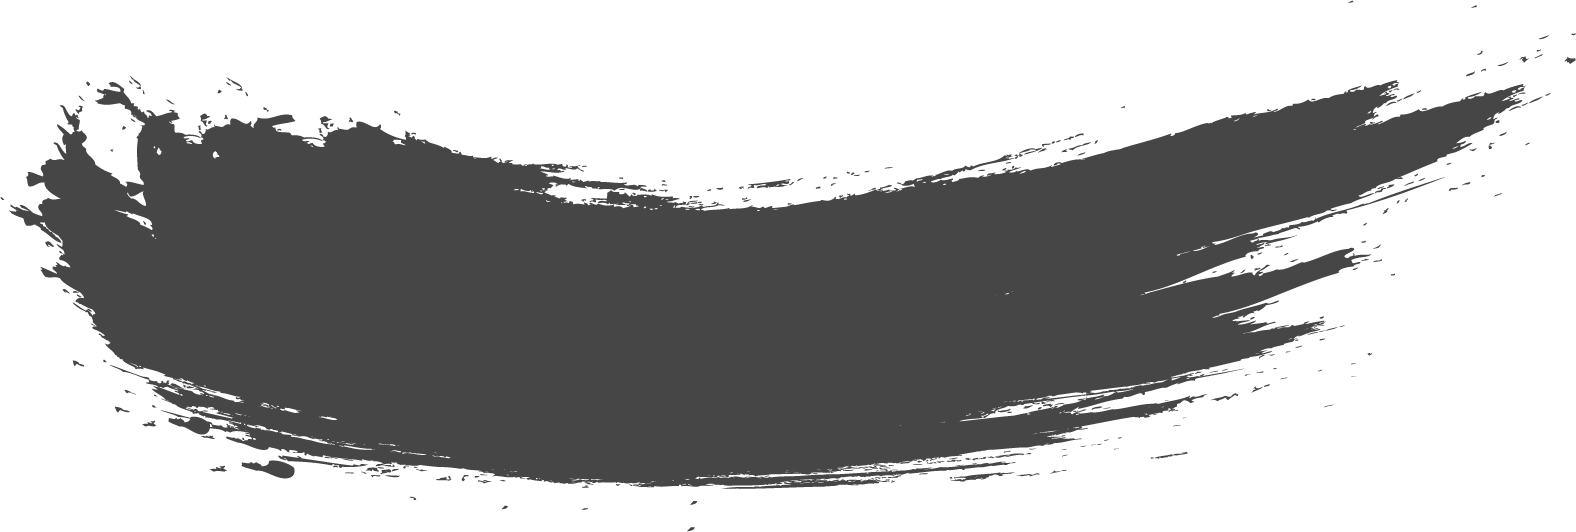
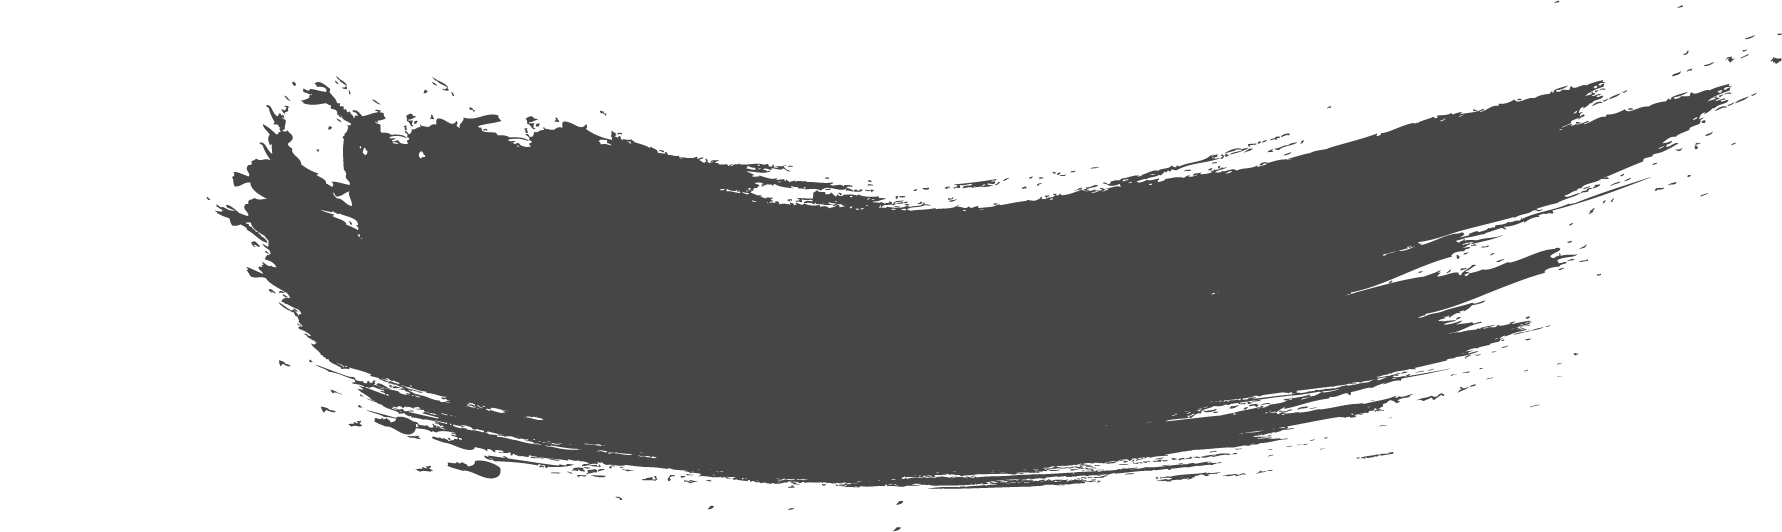
EDO-93 Add transparent padding in brushstroke image to fix cross browser styling

Changed region(s): [[0.0, 0.1504, 0.9949, 0.9323], [0.9638, 0.0902, 0.9949, 0.1203], [0.7462, 0.8421, 0.7773, 0.8722]]

diff --git a/src/main/webapp/app/teams/teams-status.scss b/src/main/webapp/app/teams/teams-status.scss
@@ -34,10 +34,12 @@
             z-index: 3;
         }
         .status-meta {
-            width: 44vh;
+            width: 50vh;
             height: 15vh;
+            margin-top: -4vh;
             color: $dojo-text-inverse-secondary;
             .team-title, .team-slogan {
+                margin-top: 6vh;
                 font-size: 2.3vh;
                 z-index: 4;
             }
@@ -61,7 +63,6 @@
                 position: absolute;
                 background: no-repeat center/cover url('../../content/images/brushstroke.png');
                 z-index: 2;
-                margin: -6vh 0 0 4vh;
             }
         }
     }
